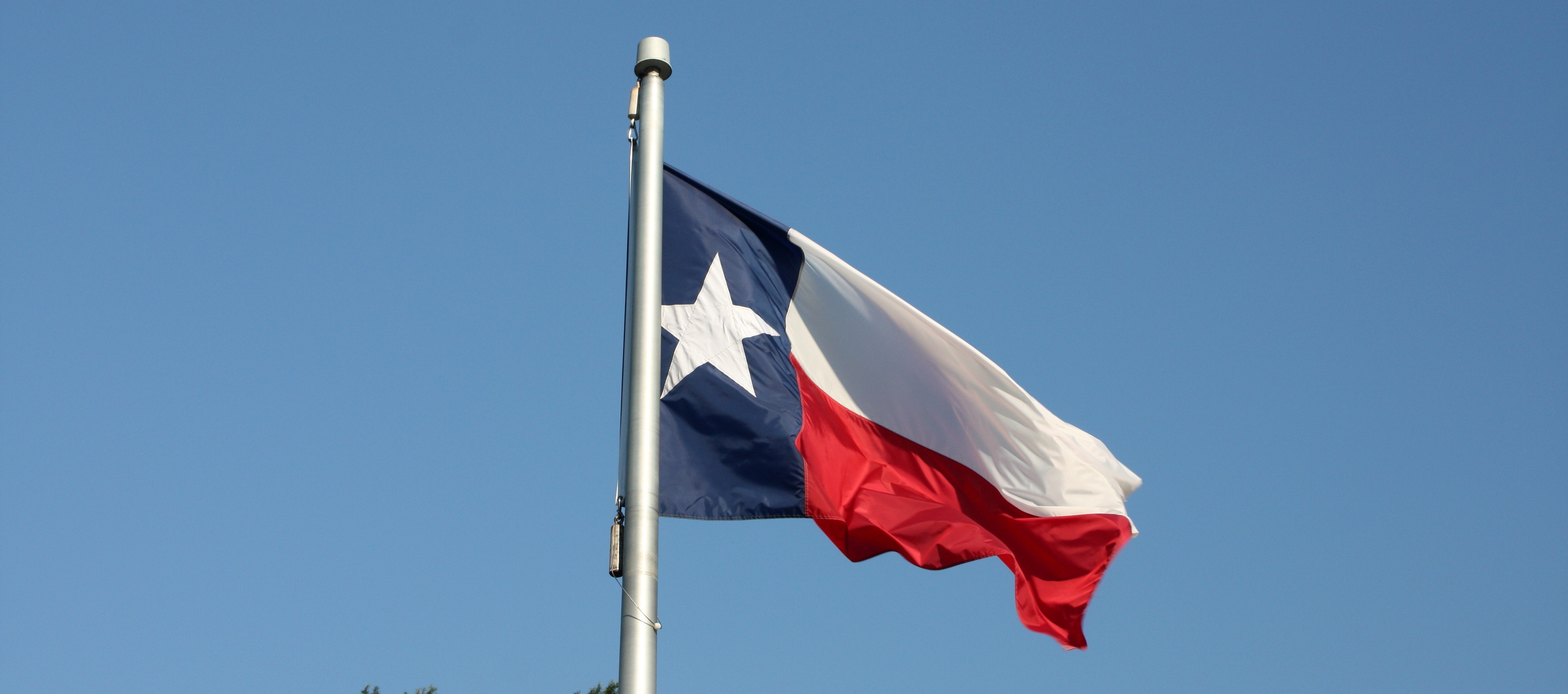
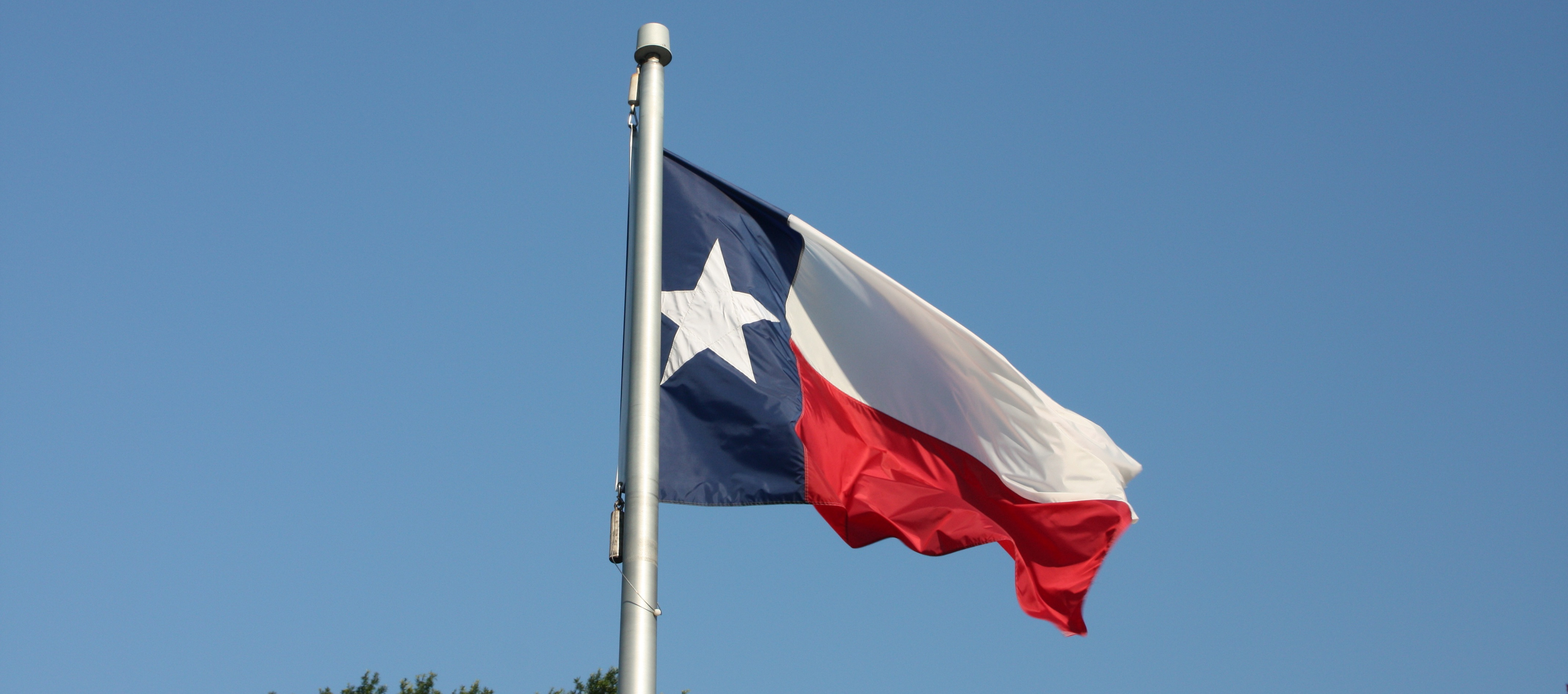
Homepage v1.1 Release
Homepage v1.1 Release

diff --git a/index.html b/index.html
@@ -52,27 +52,27 @@
 </div>
 <div class="service-grid">
 <article class="service-card reveal">
-<svg aria-hidden="true" class="service-line-icon" viewbox="0 0 48 48"><circle cx="22" cy="26" r="13"></circle><circle cx="22" cy="26" r="6"></circle><path d="M27 21l13-13M33 8h7v7"></path></svg>
+<svg aria-hidden="true" class="service-line-icon" viewBox="0 0 64 64"><circle cx="27" cy="35" r="16"/><circle cx="27" cy="35" r="7"/><path d="M35 27 51 11M43 11h8v8"/></svg>
 <h3>Advisory Services</h3><span class="mini-rule"></span>
 <p>Strategic planning, market analysis, and tailored real estate guidance aligned with your investment goals and long-term business strategy.</p>
 </article>
 <article class="service-card reveal">
-<svg aria-hidden="true" class="service-line-icon" viewbox="0 0 48 48"><path d="M8 39V25h7v14M20 39V17h7v22M32 39V10h7v29"></path><path d="M8 17l10-8 8 5L40 4M34 4h6v6"></path></svg>
+<svg aria-hidden="true" class="service-line-icon" viewBox="0 0 64 64"><path d="M10 53V38h9v15M27 53V29h9v24M44 53V18h9v35"/><path d="m10 27 13-11 11 7 19-15M45 8h8v8"/></svg>
 <h3>Investment Sales</h3><span class="mini-rule"></span>
 <p>Positioning commercial assets to maximize value through targeted marketing, qualified buyer relationships, and disciplined transaction execution.</p>
 </article>
 <article class="service-card reveal">
-<svg aria-hidden="true" class="service-line-icon handshake-icon" viewbox="0 0 56 48"><path d="M4 17l10-7 9 5 6-3 9 5 4-2 10 8-10 14-6-3-5 4-5-4-5 3-4-5-5 2-8-11z"></path><path d="M17 18l7 6c2 2 5 2 7 0l4-4M20 33l4-4M27 36l4-5M34 34l3-5"></path></svg>
+<svg aria-hidden="true" class="service-line-icon handshake-icon" viewBox="0 0 72 64"><path d="m7 27 12-9 11 6 8-4 12 7 7-4 9 8-13 17-8-4-7 6-7-6-7 5-6-6-6 3-9-13Z"/><path d="m24 28 8 7c3 2 6 2 8 0l6-6M22 43l5-5M30 48l5-6M39 47l5-6"/></svg>
 <h3>Property Disposition</h3><span class="mini-rule"></span>
 <p>Strategic planning and transaction execution designed to maximize asset value while delivering a seamless disposition process.</p>
 </article>
 <article class="service-card reveal">
-<svg aria-hidden="true" class="service-line-icon" viewbox="0 0 48 48"><circle cx="31" cy="16" r="10"></circle><path d="M24 23L7 40v4h7l3-3h5v-5h5l5-5"></path><circle cx="34" cy="13" r="1"></circle></svg>
+<svg aria-hidden="true" class="service-line-icon" viewBox="0 0 64 64"><circle cx="42" cy="21" r="13"/><path d="M33 31 10 54h10l5-5h7v-7h7l5-5"/><circle cx="46" cy="17" r="2"/></svg>
 <h3>Tenant Representation</h3><span class="mini-rule"></span>
 <p>Helping businesses secure the right location, negotiate favorable terms, and create occupancy strategies that support long-term success.</p>
 </article>
 <article class="service-card reveal">
-<svg aria-hidden="true" class="service-line-icon" viewbox="0 0 48 48"><path d="M8 42V11l16-6v37M24 14h16v28M4 42h40"></path><path d="M14 15h4M14 22h4M14 29h4M30 20h4M30 27h4"></path><path d="M29 36l4 3 7-8"></path></svg>
+<svg aria-hidden="true" class="service-line-icon" viewBox="0 0 64 64"><path d="M10 56V17L31 9v47M31 22h22v34M6 56h52"/><path d="M17 21h6M17 31h6M17 41h6M39 30h6M39 40h6"/><path d="m39 50 5 4 9-11"/></svg>
 <h3>Property &amp; Asset Management</h3><span class="mini-rule"></span>
 <p>Protecting long-term asset value through proactive management, operational oversight, tenant coordination, and consistent financial discipline.</p>
 </article>

diff --git a/styles.css b/styles.css
@@ -93,3 +93,16 @@ main section[id]{scroll-margin-top:76px}
 #insights .insight-grid article{border-top:0!important;overflow:hidden!important}
 #insights .insight-grid article::before{display:none!important}
 @media(max-width:1180px){#insights .insight-intro{transform:none}}
+
+
+/* Latitude Stone release polish */
+.hero-slide:nth-child(2){background-position:center 48%;}
+.hero-slide:nth-child(3){background-position:center 45%;}
+.service-card .service-line-icon{width:66px!important;height:66px!important;fill:none!important;stroke:var(--gold)!important;stroke-width:2.6!important;stroke-linecap:square!important;stroke-linejoin:miter!important;vector-effect:non-scaling-stroke!important}
+.service-card .service-line-icon.handshake-icon{width:72px!important;height:66px!important;stroke-width:2.7!important}
+.market-map{background-image:url('assets/metroplex-map-light.jpg')!important;background-size:cover!important;background-position:center!important}
+#insights .insight-intro{transform:translateX(-112px)!important;padding-left:0!important}
+#insights .insight-grid img{display:block!important;margin:0!important;padding:0!important;border:0!important;outline:0!important;height:155px!important;object-fit:cover!important;object-position:center!important}
+#insights .insight-grid article{overflow:hidden!important;border:0!important}
+#insights .insight-grid article::before{display:none!important}
+@media(max-width:1180px){#insights .insight-intro{transform:none!important}}

diff --git a/README.md b/README.md
@@ -1,15 +1,10 @@
-# Latitude Stone Homepage RC1
+# Latitude Stone Homepage Release
 
-Upload every file and the `assets` folder to the root of the GitHub repository.
+Upload all files and the `assets` folder to the root of the GitHub repository.
 
-Suggested commit message: `Homepage Release Candidate RC1`
-
-After GitHub Pages deploys, use Ctrl + Shift + R to refresh.
-
-## Third-party asset notices
-
-- DFW freeway map base by Chriszwolle, Wikimedia Commons, licensed CC BY-SA 3.0. The map was recolored and labeled for this website.
-- Interface icons are Font Awesome Free 6.7.2 by Fonticons, Inc. Icons are licensed CC BY 4.0; code is MIT licensed.
-
-
-Image credits: Dallas skyline photograph by david.nahas, CC BY-SA 2.0 via Wikimedia Commons. Texas flag photograph by Makaristos, public domain via Wikimedia Commons.
+Included refinements:
+- High-resolution Dallas skyline and Texas hero slides
+- Professional outline service icons
+- Branded DFW market map based on accurate freeway geometry
+- Rebalanced Market Intelligence text block
+- New construction crane and retail center imagery with clean, flush card tops
